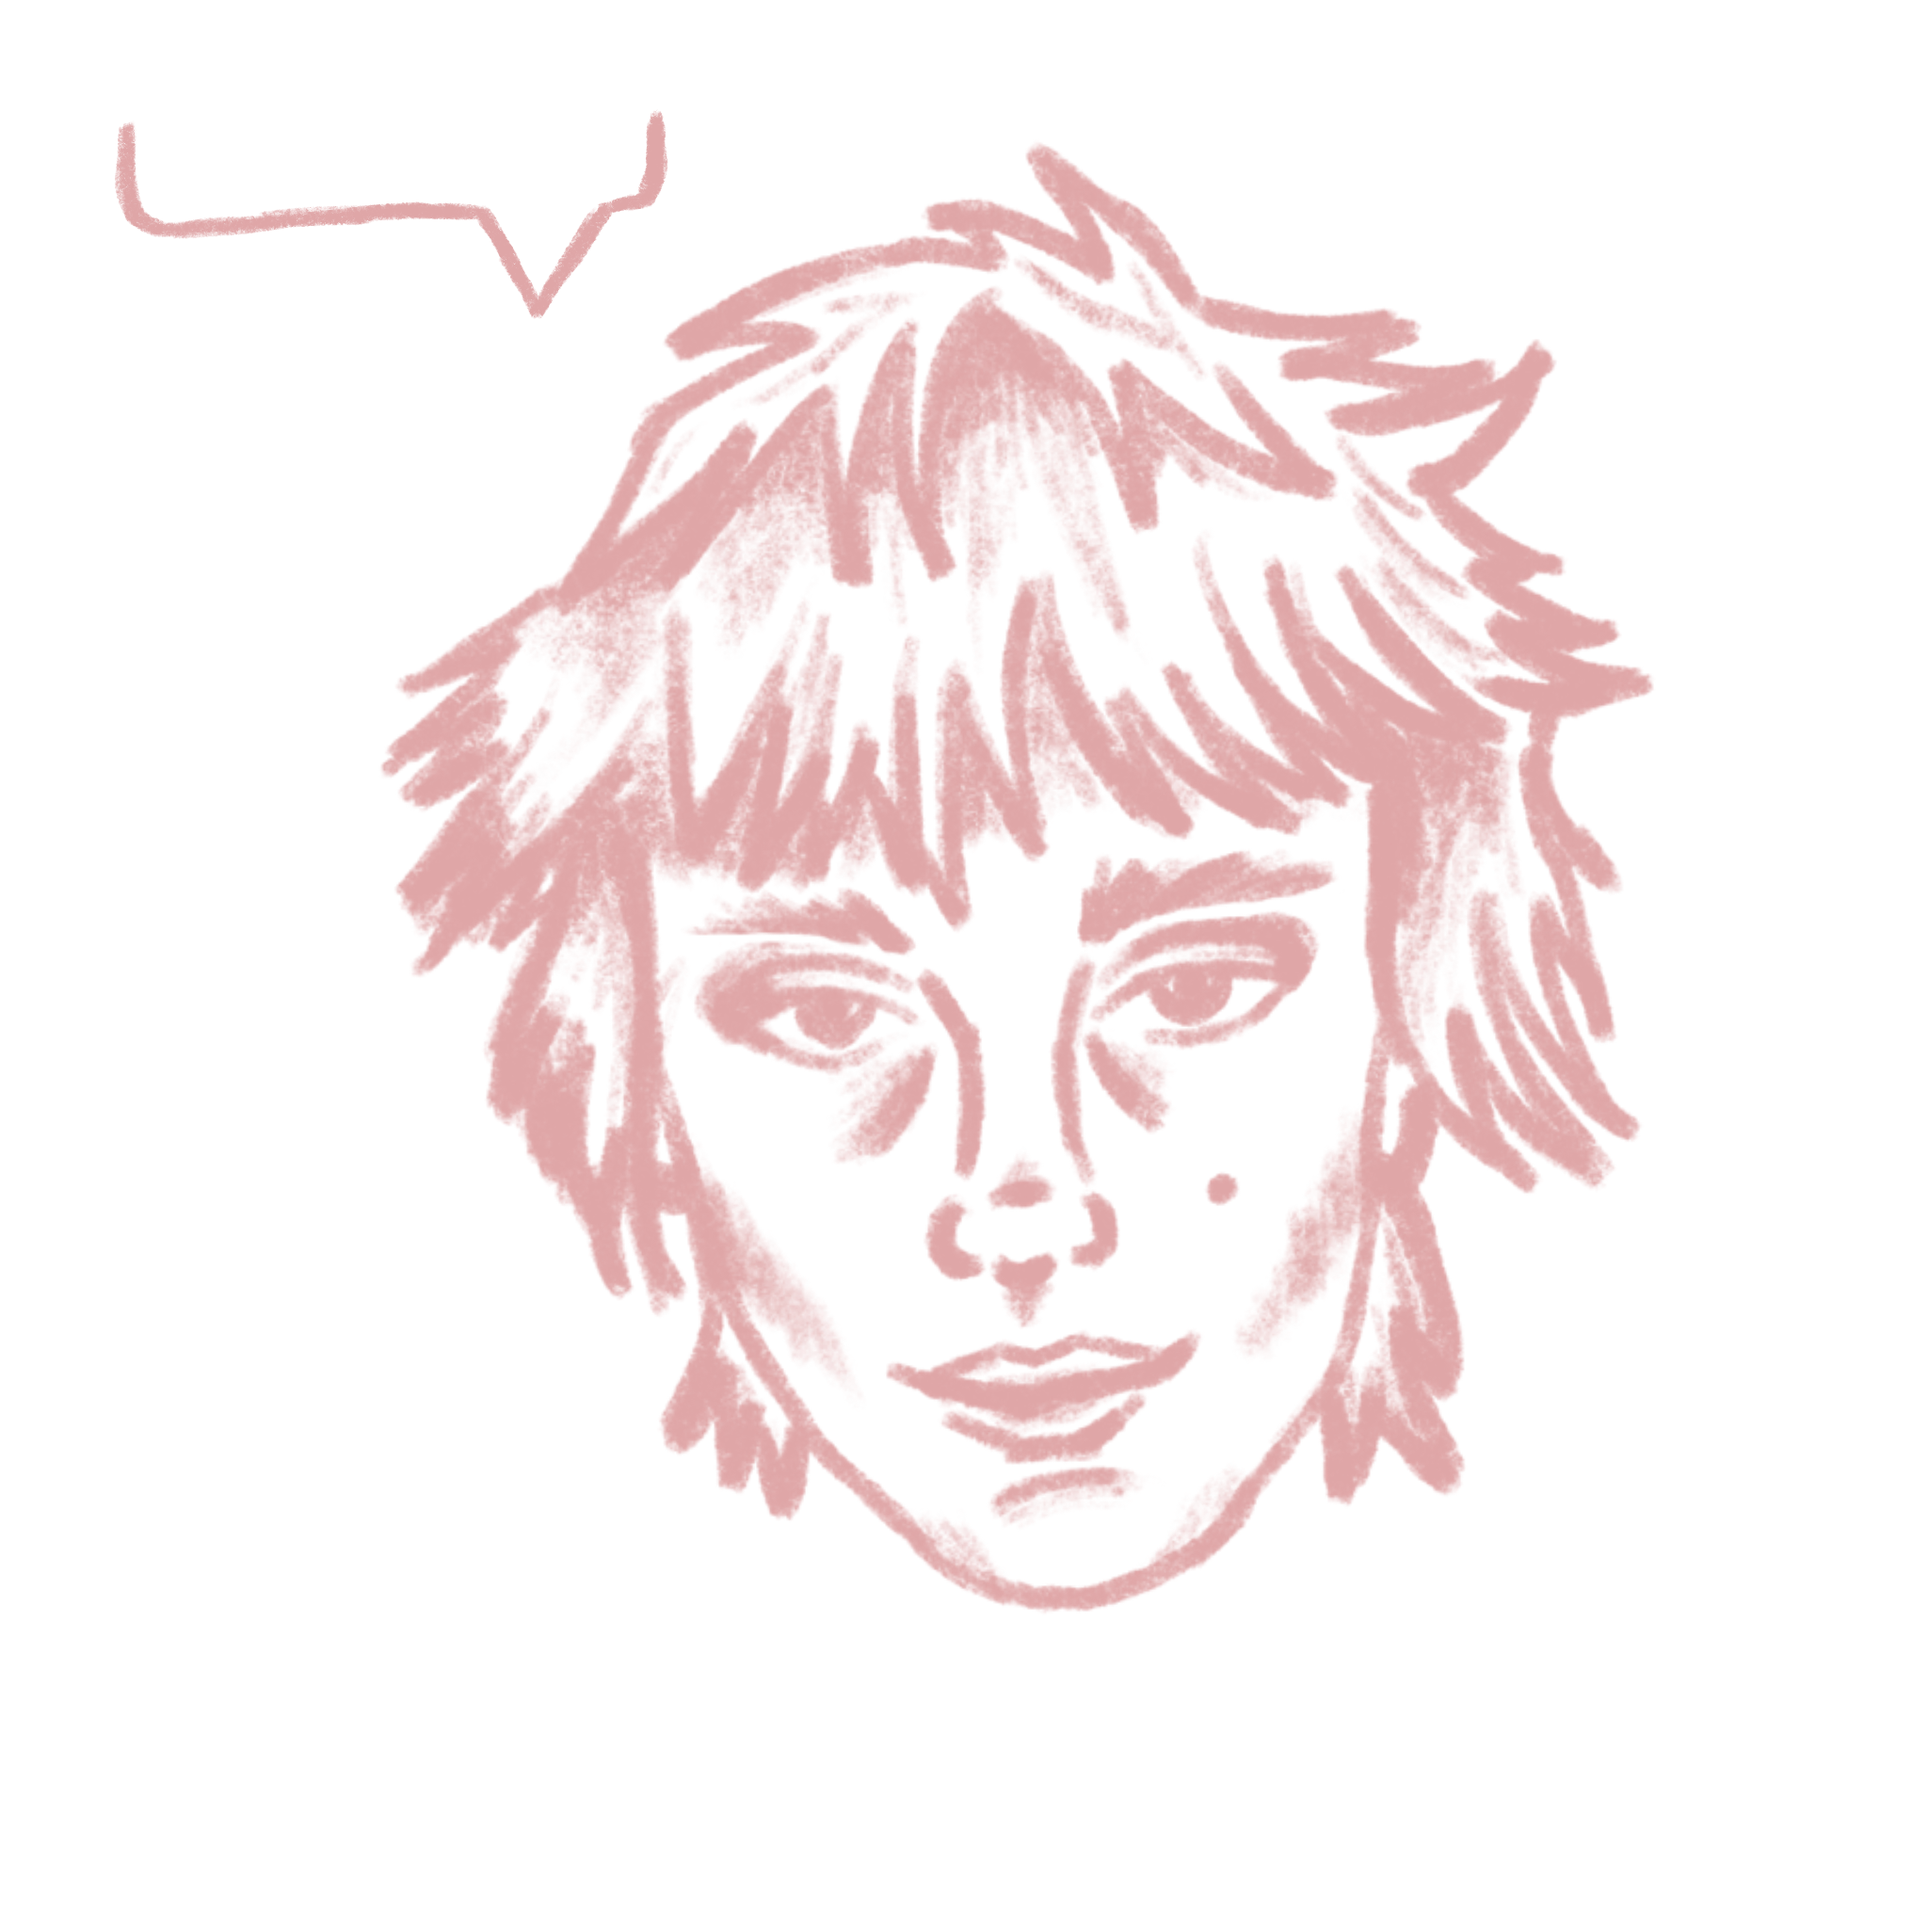
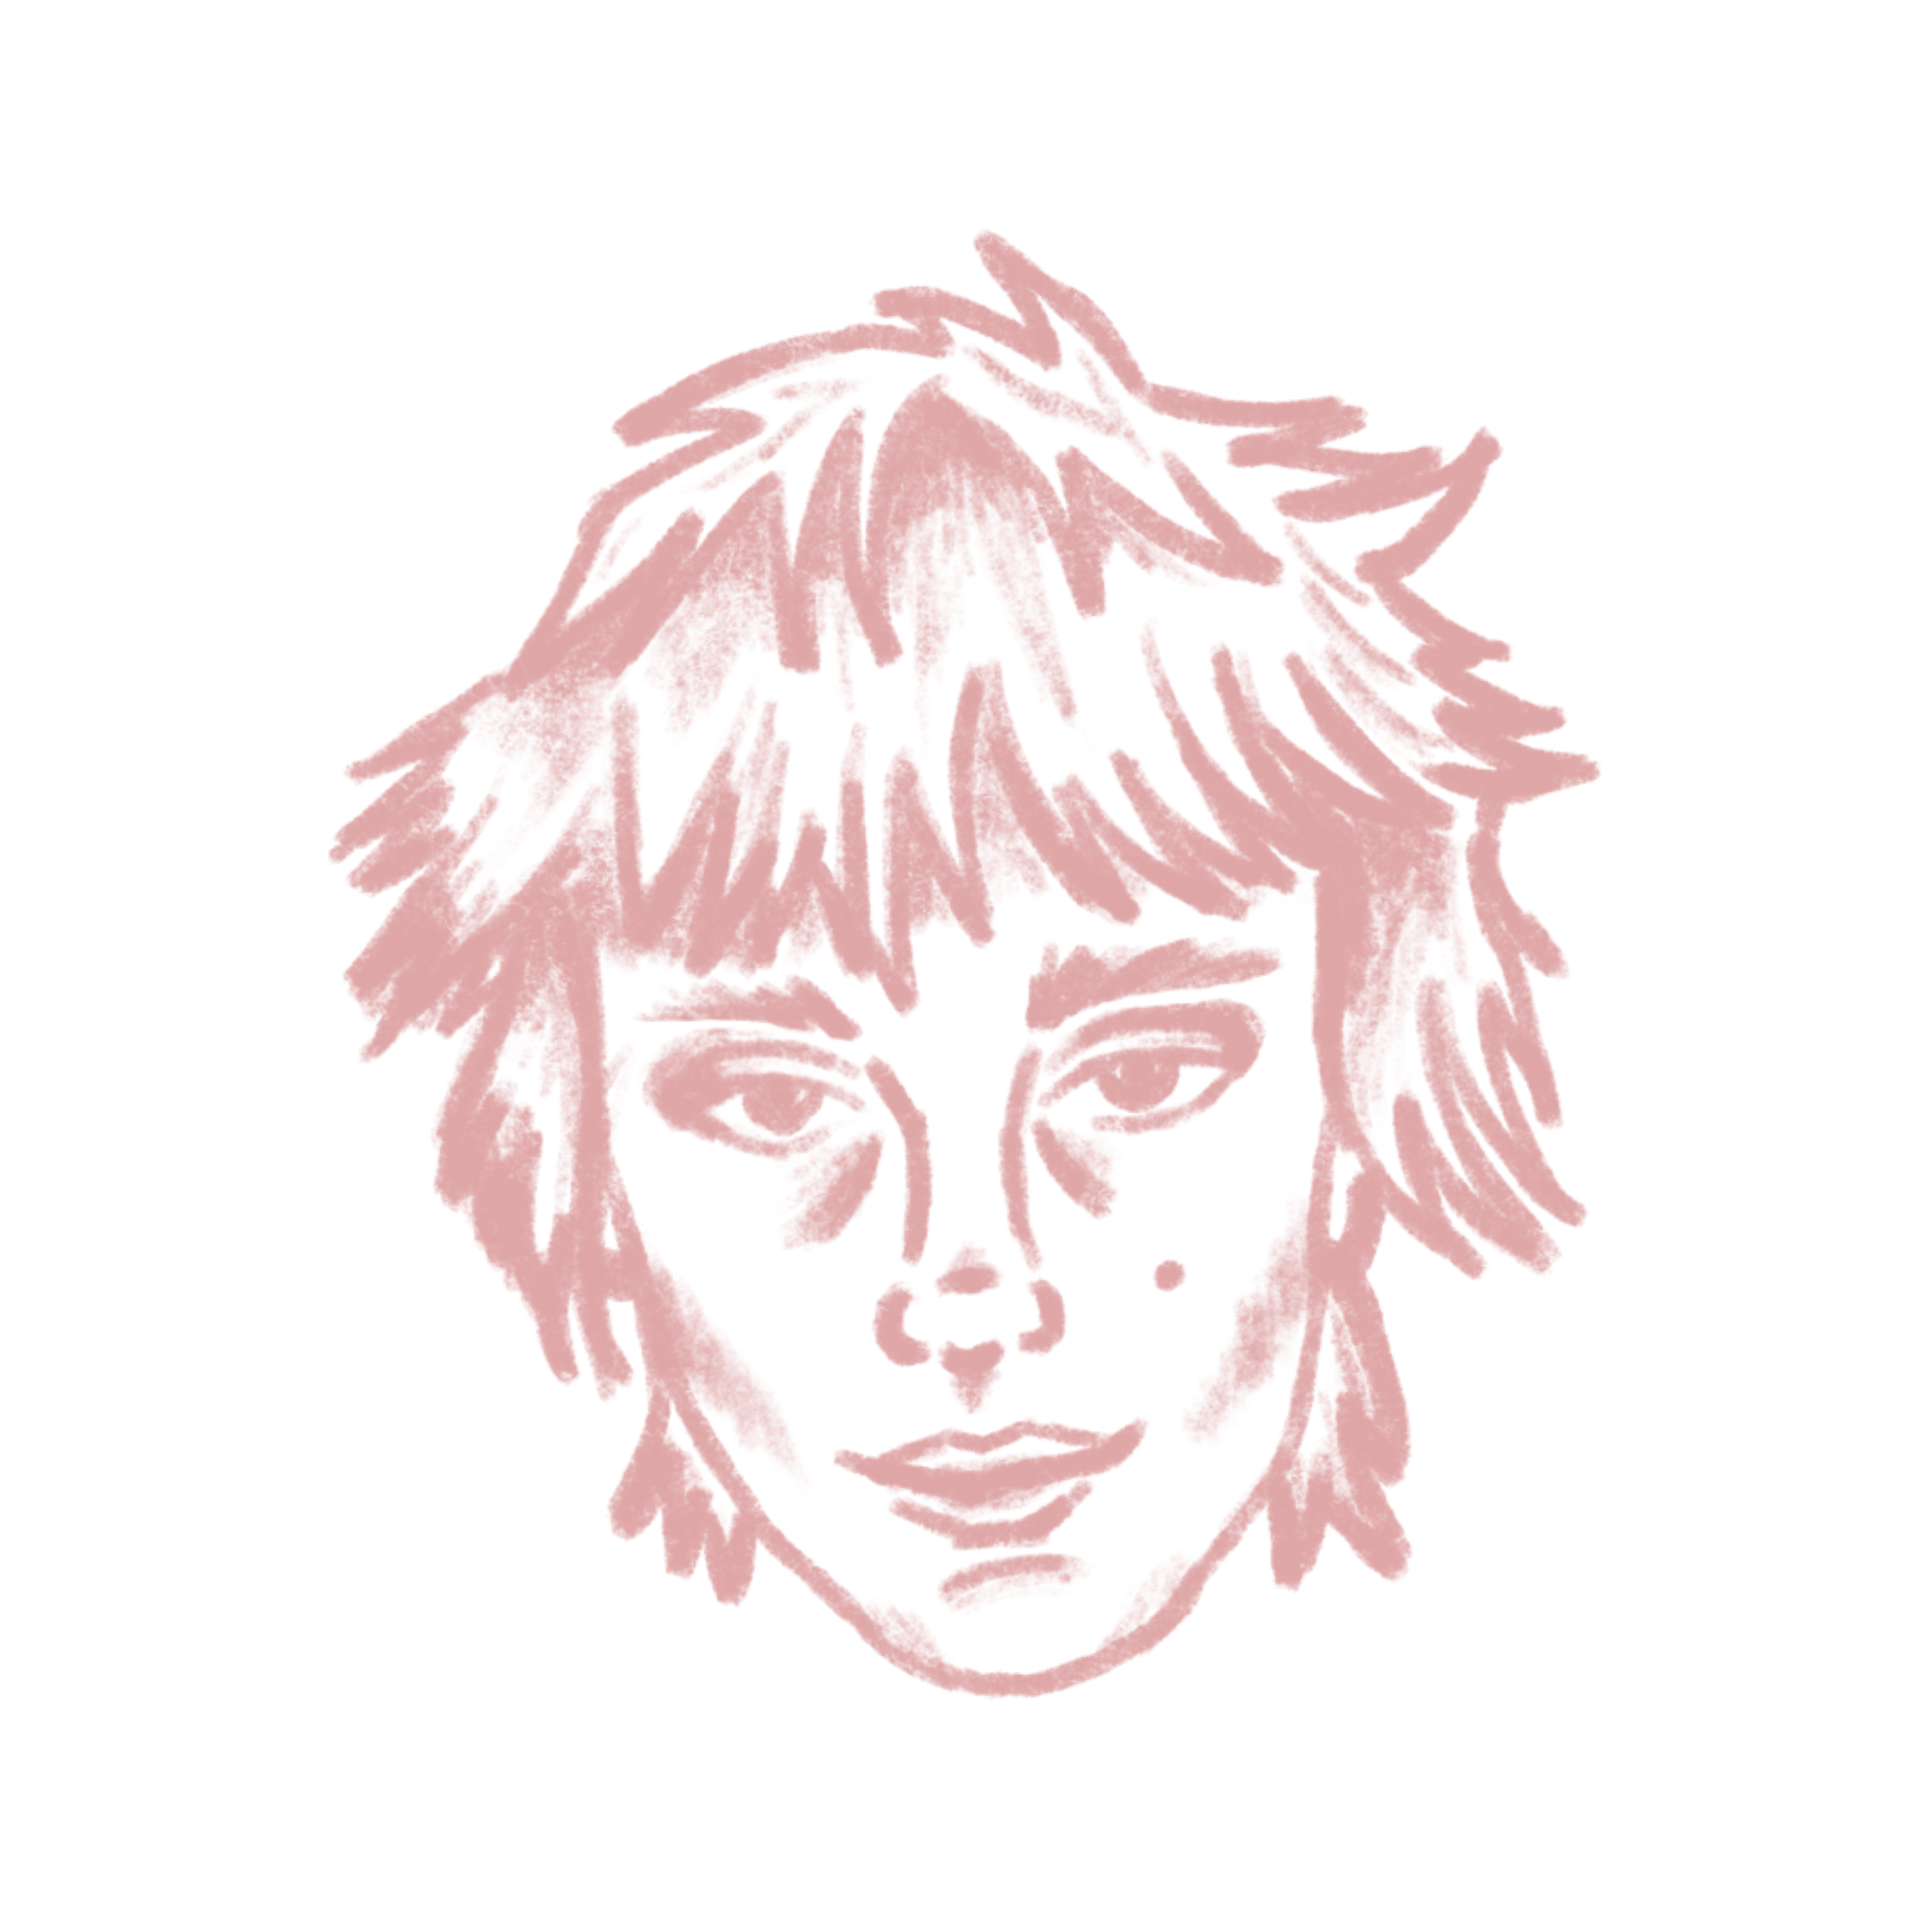
centered everything on home

Changed region(s): [[0.1562, 0.0625, 0.875, 0.9062], [0.0625, 0.0625, 0.3438, 0.1562]]

diff --git a/index.html b/index.html
@@ -7,13 +7,15 @@
 
   <body>
     <h1>em's ideas</h1>
-    <p> hello! i am emma, and these are my ideas.</p>
-    <ul>
-      <li><a href="reading-responses.html"> reading responses</a></li>
-      <li><a href="hair-website/index.html"> passion project pt.1 </a></li>
-    </ul>
+    <p> hello!
+      <br> i am emma, and these are my ideas.</p>
+    <p>
+    <a href="reading-responses.html"> reading responses</a>
+    <br>
+    <a href="hair-website/index.html"> passion project pt.1 </a>
+    </p>
   </body>
 
-<img src="profile.png">
+<img src="profile.png" alt="a sketch of the artist" style="display: block; margin-left:auto; margin-right:auto;">
 
 </html>

diff --git a/styles.css b/styles.css
@@ -8,12 +8,17 @@ p {
 
 h1{
   color:pink;
+  text-align: center;
 }
 
 h2{
-color:pink;  
+color:pink;
 }
 
 img {
   max-width:50%
+}
+
+p{
+  text-align: center;
 }
